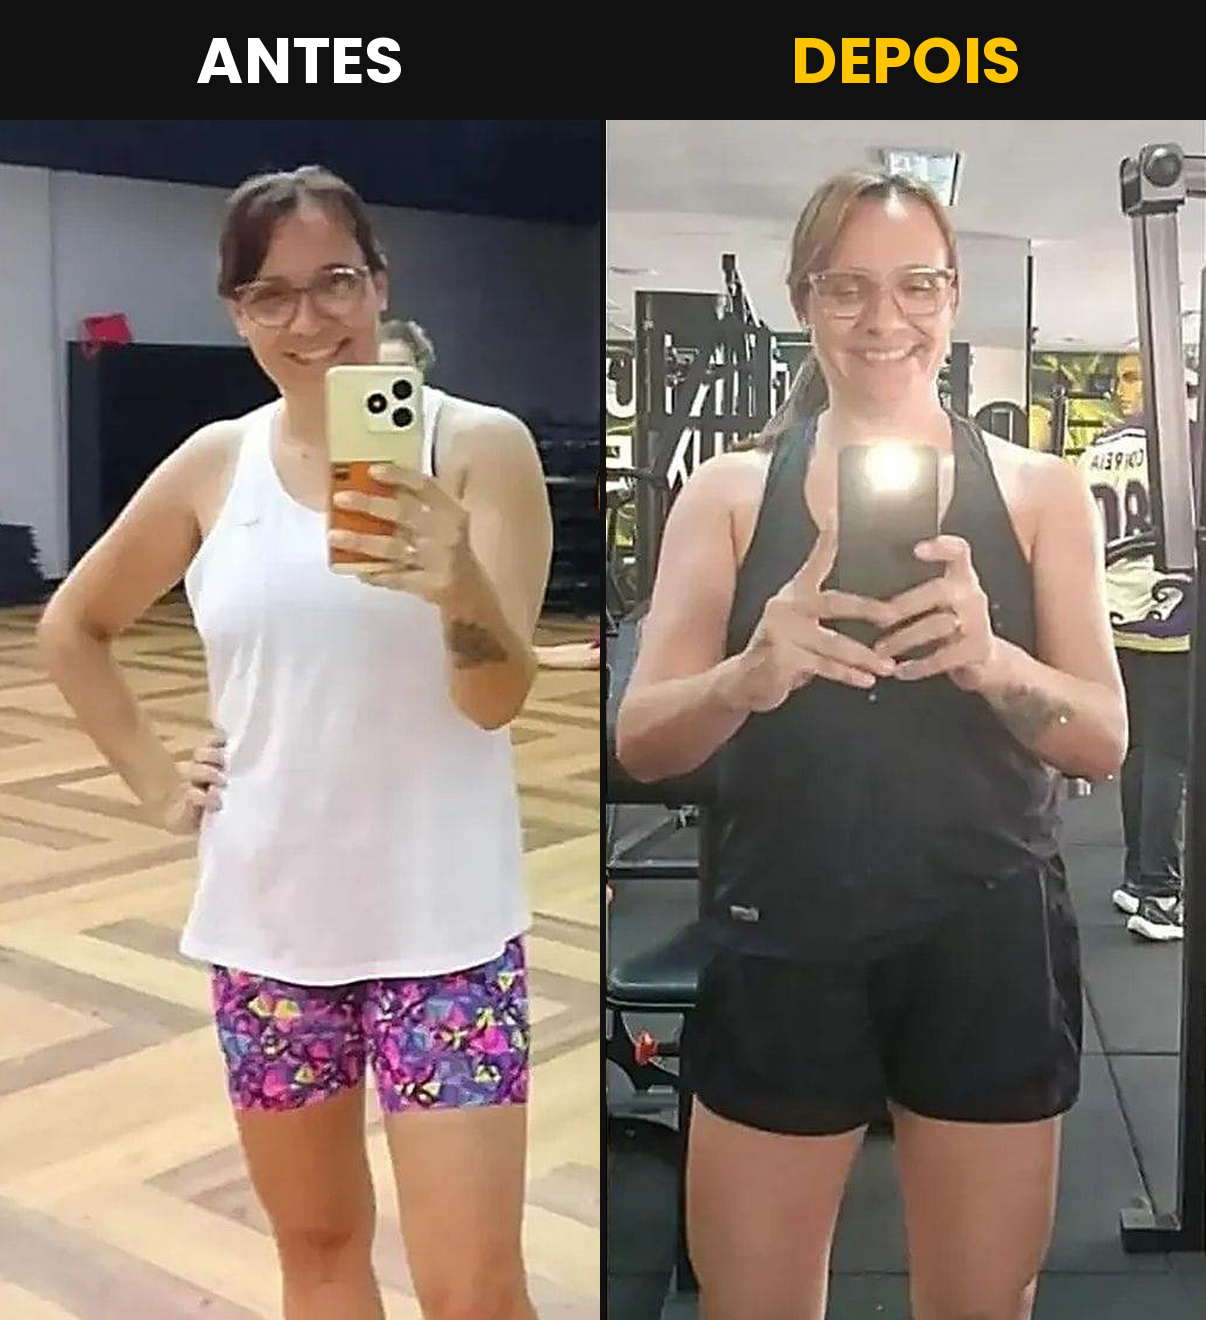
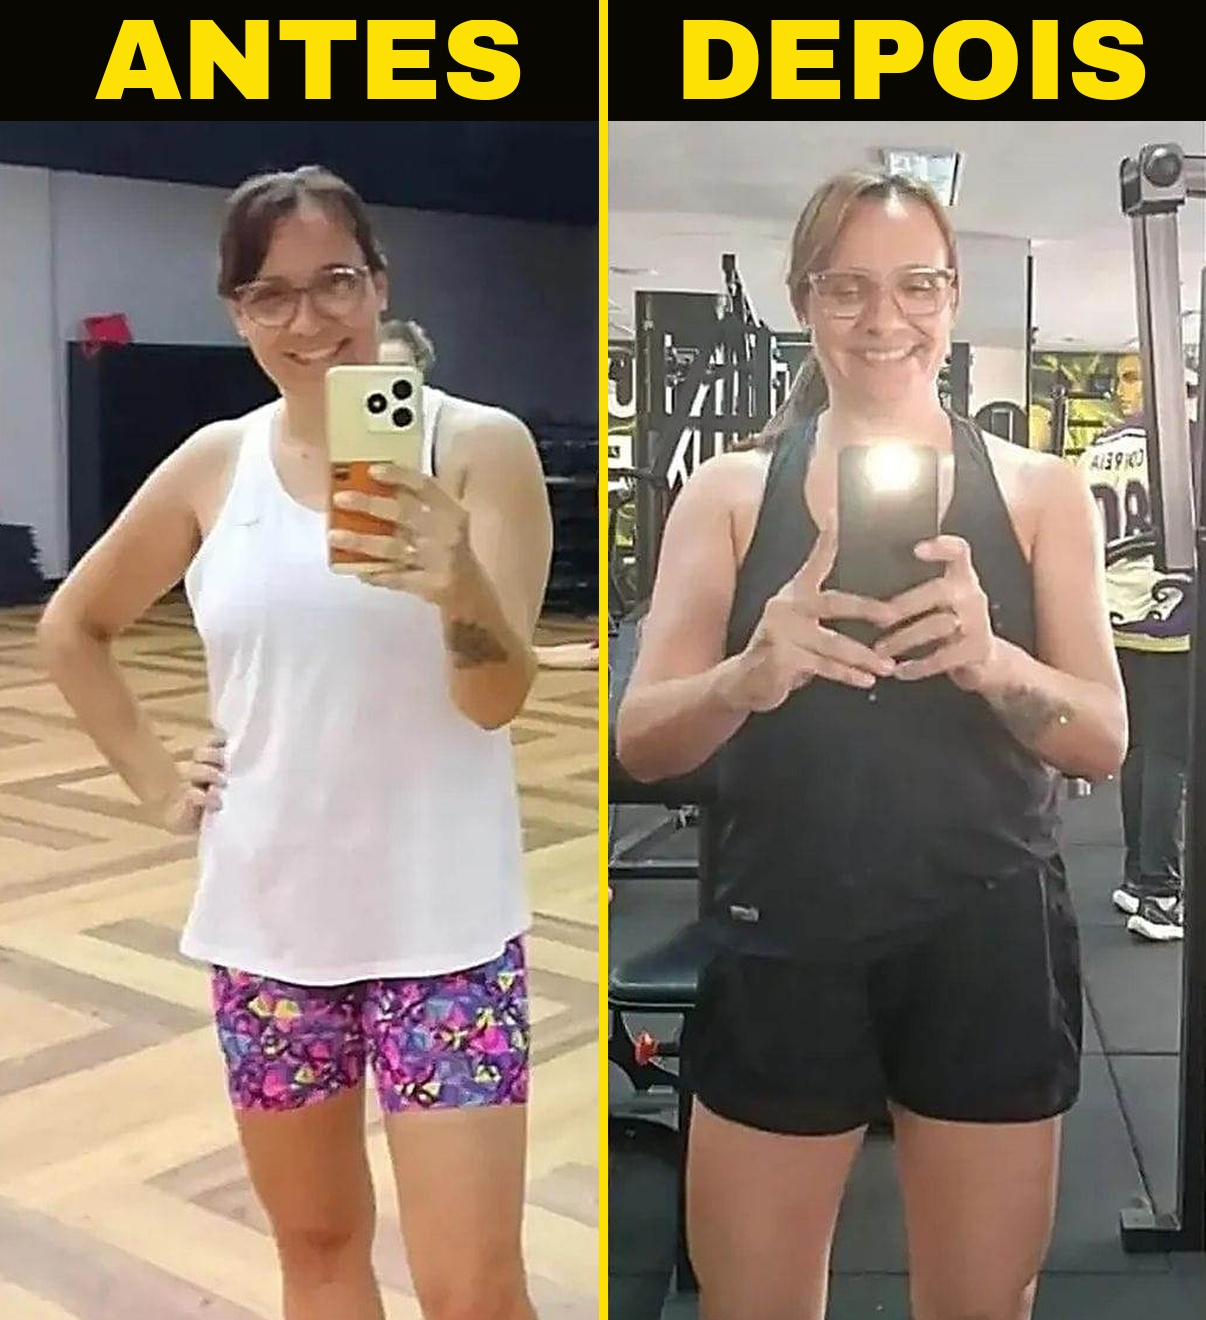
personalizando

Changed region(s): [[0.5522, 0.0, 0.9511, 0.0932], [0.4909, 0.0, 0.5216, 1.0], [0.0614, 0.0, 0.4295, 0.0932]]

diff --git a/index.html b/index.html
@@ -11,7 +11,8 @@
 
 <body>
   <div class="topbar">
-    <div class="container"><span>Treine com atitude · Evolua todos os dias /<p class="at">SITE EM DESENVOLVIMENTO...</p> </span><span>Jardim Nova Lençóis · Lençóis
+    <div class="container"><span>Treine com atitude · Evolua todos os dias /<p class="at">SITE EM DESENVOLVIMENTO...</p>
+      </span><span>Jardim Nova Lençóis · Lençóis
         Paulista - SP</span></div>
   </div>
   <nav class="nav">
@@ -50,7 +51,7 @@
           <p>Estratégia, consistência e energia para construir uma versão mais forte de você sem fórmulas prontas.</p>
         </div>
         <div class="stats">
-          <div class="stat"><strong>+1</strong><small>Ano transformando vidas</small></div>
+          <div class="stat"><strong>+2</strong><small>Anos transformando vidas</small></div>
           <div class="stat"><strong>1:1</strong><small>Atenção em cada treino</small></div>
           <div class="stat"><strong>5⭐</strong><small>Avaliação dos alunos</small></div>
           <div class="stat"><strong>100%</strong><small>Energia Susi Fit</small></div>
@@ -87,7 +88,8 @@
     </section>
     <section class="section yellow" id="sobre">
       <div class="container about">
-        <div class="poster"><img class="imgsusi" src="./assents/susi.png">
+        <div class="poster"><img class="imgsusi" src="./assents/susi.jpg"
+            alt="Susana Lopes - Susi Fit Studio"><span></span>
           <div class="poster-top"><span></span><span></span></div>
         </div>
         <div>
@@ -107,6 +109,56 @@
         </div>
       </div>
     </section>
+    <section class="section yellow" id="sobre">
+      <div class="container about">
+        <div class="poster"><img class="imgsusi" src="./assents/thaina.jpg"
+            alt="Thaina  - Susi Fit Studio"><span></span>
+          <div class="poster-top"><span></span><span></span></div>
+        </div>
+        <div>
+          <div class="eyebrow" style="color:#000">Quem está com você</div>
+          <h2>Thaina<br></h2>
+          <p style="font-size:1.12rem;font-weight:700">Profissional de Educação Física apaixonada por transformar vidas
+            por meio
+            do movimento. Atua com treinos personalizados, focados em saúde, performance e bem-estar, respeitando o
+            objetivo e o ritmo de cada aluno. Acredita que constância,
+            acompanhamento próximo e motivação são o caminho para resultados reais e duradouros.</p>
+          <div class="qualifications">
+            <div class="qualification"><strong>● Bacharelado em Educação Física</strong><span>CREF/SP</span>
+            </div>
+            <div class="qualification"><strong>● Especialização em Treinamento Funcional</strong><span>Certificação
+                reconhecida · Performance e mobilidade</span></div>
+      
+        </div>
+      </div>
+    </section>
+    <section class="section yellow" id="sobre">
+      <div class="container about">
+        <div class="poster"><img class="imgsusi" src="./assents/nathalia.jpg"
+            alt="Nathalia  - Susi Fit Studio"><span></span>
+          <div class="poster-top"><span></span><span></span></div>
+        </div>
+        <div>
+          <div class="eyebrow" style="color:#000">Quem está com você</div>
+          <h2>Nathalia<br></h2>
+          <p style="font-size:1.12rem;font-weight:700">Ser estagiária de Educação Física é viver o que a faculdade
+            ensina na prática, todos os dias. É aprender com cada aluno, com cada treino e com cada correção feita no
+            momento certo.
+
+            Para mim, é muito mais do que contar repetições. É observar o corpo de cada pessoa, entender o limite e o
+            objetivo dela e ajudá-la a ir além com segurança. Tem dia de aluno animado e dia de aluno sem vontade, e é
+            nesse segundo que o meu papel mais importa: motivar, ouvir e mostrar que o progresso vem da constância.
+
+            É também um período de construção. Eu absorvo a experiência dos professores, me dedico aos estudos e carrego
+            a responsabilidade de cuidar da saúde de quem confia em mim. Cada aluno que evolui me lembra por que escolhi
+            essa profissão.</p>
+          <div class="qualifications">
+            <div class="qualification"><strong>● Estagiária em Educação Física</strong><span></span>
+            </div>
+
+          </div>
+        </div>
+    </section>
     <section class="section testimonials" id="depoimentos">
       <div class="container">
         <div class="section-head">
@@ -117,18 +169,22 @@
           <p>Histórias reais de pessoas que escolheram começar e não pararam.</p>
         </div>
         <div class="cards">
-          <article class="quote"><img src="./assents/aluna1.jpg" class="imgps"><br>
+          <article class="quote"><img src="./assents/aluna1.jpg" class="imgps" alt="Aluna 1"><br>
             <p>“Muito feliz com os resultados, e disposta a melhorar ainda mais.💪❤”</p><br>
             <footer>Raquel G.<span></span></footer>
           </article>
-          <article class="quote"><img src="./assents/aluna2.jpg" class="imgps"><br>
+          <article class="quote"><img src="./assents/aluna2.jpg" class="imgps" alt="Aluna 2"><br>
             <p>“Finalmente encontrei uma academia em que me sinto acolhida. Evoluí na força e até minha postura mudou.”
             </p>
             <footer>Ana V.<span></span></footer>
           </article>
-          <article class="quote"><img src="./assents/" class="imgps"><br>
-            <p>“A energia do espaço é diferente. Saio de cada treino cansado, feliz e com vontade de voltar.”</p>
-            <footer>.<span></span></footer>
+          <article class="quote"><img src="./assents/aluno3.jpeg" class="imgps" alt="Aluno 3"><br>
+            <p></p>
+            <footer>Jeferson C.<span>1 ano de treino</span></footer>
+          </article>
+          <article class="quote"><img src="./assents/aluno4.jpeg" class="imgps" alt="Aluno 4"><br>
+            <p>Me sinto mais forte e com mais energia a cada dia! E os resultados só me motivam a cada treino!”</p>
+            <footer>João A.<span>2 anos de treino</span></footer>
           </article>
         </div>
       </div>
@@ -171,21 +227,35 @@
               <h1 class="topic">MODALIDADE</h1><br>
               <div class="countainertopic">
                 <div class="iconbox">
-              <svg xmlns="http://www.w3.org/2000/svg" width="60" height="60" viewBox="0 0 24 24" fill="none" stroke="currentColor" stroke-width="2" stroke-linecap="round" stroke-linejoin="round" class="iconplans"><path d="M12.409 13.017A5 5 0 0 1 22 15c0 3.866-4 7-9 7-4.077 0-8.153-.82-10.371-2.462-.426-.316-.631-.832-.62-1.362C2.118 12.723 2.627 2 10 2a3 3 0 0 1 3 3 2 2 0 0 1-2 2c-1.105 0-1.64-.444-2-1"/><path d="M15 14a5 5 0 0 0-7.584 2"/><path d="M9.964 6.825C8.019 7.977 9.5 13 8 15"/></svg>
-              </div>
-              <div>
-              <p class="topicsec">Musculação<br>
-              uma vez na semana.</p>
-              </div>
+                  <svg xmlns="http://www.w3.org/2000/svg" width="60" height="60" viewBox="0 0 24 24" fill="none"
+                    stroke="currentColor" stroke-width="2" stroke-linecap="round" stroke-linejoin="round"
+                    class="iconplans">
+                    <path
+                      d="M12.409 13.017A5 5 0 0 1 22 15c0 3.866-4 7-9 7-4.077 0-8.153-.82-10.371-2.462-.426-.316-.631-.832-.62-1.362C2.118 12.723 2.627 2 10 2a3 3 0 0 1 3 3 2 2 0 0 1-2 2c-1.105 0-1.64-.444-2-1" />
+                    <path d="M15 14a5 5 0 0 0-7.584 2" />
+                    <path d="M9.964 6.825C8.019 7.977 9.5 13 8 15" />
+                  </svg>
+                </div>
+                <div>
+                  <p class="topicsec">Musculação<br>
+                    uma vez na semana.</p>
+                </div>
               </div>
               <h1 class="topic">SERVIÇOS INCLUSOS</h1><br>
               <div class="countainertopic">
-                <div class="iconbox">                  
-                <svg xmlns="http://www.w3.org/2000/svg" width="60" height="60" viewBox="0 0 24 24" fill="none" stroke="currentColor" stroke-width="2" stroke-linecap="round" stroke-linejoin="round" class="iconplans"><path d="M12 20h.01"/><path d="M2 8.82a15 15 0 0 1 20 0"/><path d="M5 12.859a10 10 0 0 1 14 0"/><path d="M8.5 16.429a5 5 0 0 1 7 0"/></svg>
+                <div class="iconbox">
+                  <svg xmlns="http://www.w3.org/2000/svg" width="60" height="60" viewBox="0 0 24 24" fill="none"
+                    stroke="currentColor" stroke-width="2" stroke-linecap="round" stroke-linejoin="round"
+                    class="iconplans">
+                    <path d="M12 20h.01" />
+                    <path d="M2 8.82a15 15 0 0 1 20 0" />
+                    <path d="M5 12.859a10 10 0 0 1 14 0" />
+                    <path d="M8.5 16.429a5 5 0 0 1 7 0" />
+                  </svg>
                 </div>
                 <div>
-              <p class="topicsec">Wi-fi gratuito.</p>
-              </div>
+                  <p class="topicsec">Wi-fi gratuito.</p>
+                </div>
               </div>
             </div>
           </article>
@@ -195,40 +265,63 @@
               <p>À partir de</p>
               <br>
               <div class="pricemensal">
-              <div>
-              <h1 class="pricesecm1">R$ <span class="price">90</span>,00</h1>
-              <p class="opcoes">Dinheiro ou pix</p>
-              </div>
-          
-              <div>
-              <h1 class="pricesecm">R$ <span class="price">95</span>,00</h1>
-              <p class="opcoes">Crédito ou Débito</p>
-              </div>
+                <div>
+                  <h1 class="pricesecm1">R$ <span class="price">90</span>,00</h1>
+                  <p class="opcoes">Dinheiro ou pix</p>
+                </div>
+
+
+                <div>
+                  <h1 class="pricesecm">R$ <span class="price">95</span>,00</h1>
+                  <p class="opcoes">Crédito ou Débito</p>
+                </div>
               </div>
               <h1 class="topic">MODALIDADE</h1><br>
               <div class="countainertopic2">
                 <div class="iconbox">
-              <svg xmlns="http://www.w3.org/2000/svg" width="60" height="60" viewBox="0 0 24 24" fill="none" stroke="currentColor" stroke-width="2" stroke-linecap="round" stroke-linejoin="round" class="iconplans"><path d="M12.409 13.017A5 5 0 0 1 22 15c0 3.866-4 7-9 7-4.077 0-8.153-.82-10.371-2.462-.426-.316-.631-.832-.62-1.362C2.118 12.723 2.627 2 10 2a3 3 0 0 1 3 3 2 2 0 0 1-2 2c-1.105 0-1.64-.444-2-1"/><path d="M15 14a5 5 0 0 0-7.584 2"/><path d="M9.964 6.825C8.019 7.977 9.5 13 8 15"/></svg>
-              </div>
-              <div>
-              <p class="topicsec">Musculação a
-               semana toda.</p>
-              </div>
+                  <svg xmlns="http://www.w3.org/2000/svg" width="60" height="60" viewBox="0 0 24 24" fill="none"
+                    stroke="currentColor" stroke-width="2" stroke-linecap="round" stroke-linejoin="round"
+                    class="iconplans">
+                    <path
+                      d="M12.409 13.017A5 5 0 0 1 22 15c0 3.866-4 7-9 7-4.077 0-8.153-.82-10.371-2.462-.426-.316-.631-.832-.62-1.362C2.118 12.723 2.627 2 10 2a3 3 0 0 1 3 3 2 2 0 0 1-2 2c-1.105 0-1.64-.444-2-1" />
+                    <path d="M15 14a5 5 0 0 0-7.584 2" />
+                    <path d="M9.964 6.825C8.019 7.977 9.5 13 8 15" />
+                  </svg>
+                </div>
+                <div>
+                  <p class="topicsec">Musculação a
+                    semana toda.</p>
+                </div>
               </div>
               <h1 class="topic">SERVIÇOS INCLUSOS</h1><br>
               <div class="countainertopic2">
-                <div class="iconbox">                  
-                <svg xmlns="http://www.w3.org/2000/svg" width="60" height="60" viewBox="0 0 24 24" fill="none" stroke="currentColor" stroke-width="2" stroke-linecap="round" stroke-linejoin="round" class="iconplans"><path d="M12 20h.01"/><path d="M2 8.82a15 15 0 0 1 20 0"/><path d="M5 12.859a10 10 0 0 1 14 0"/><path d="M8.5 16.429a5 5 0 0 1 7 0"/></svg>
+                <div class="iconbox">
+                  <svg xmlns="http://www.w3.org/2000/svg" width="60" height="60" viewBox="0 0 24 24" fill="none"
+                    stroke="currentColor" stroke-width="2" stroke-linecap="round" stroke-linejoin="round"
+                    class="iconplans">
+                    <path d="M12 20h.01" />
+                    <path d="M2 8.82a15 15 0 0 1 20 0" />
+                    <path d="M5 12.859a10 10 0 0 1 14 0" />
+                    <path d="M8.5 16.429a5 5 0 0 1 7 0" />
+                  </svg>
                 </div>
                 <div>
-              <p class="topicsec">Wi-fi gratuito.</p>
-              </div>
-              <div class="iconbox">
-                <svg xmlns="http://www.w3.org/2000/svg" width="60" height="60" viewBox="0 0 24 24" fill="none" stroke="currentColor" stroke-width="2" stroke-linecap="round" stroke-linejoin="round" class="iconplans"><path d="M13 19a4 4 0 00-8 0"/><path d="M16 10h2"/><path d="M16 14h2"/><circle cx="9" cy="12" r="3"/><rect x="2" y="5" width="20" height="14" rx="2"/></svg>
-              </div>
-              <div>
-                <p class="topicsec">Entrada ilimitada.</p>
-              </div>
+                  <p class="topicsec">Wi-fi gratuito.</p>
+                </div>
+                <div class="iconbox">
+                  <svg xmlns="http://www.w3.org/2000/svg" width="60" height="60" viewBox="0 0 24 24" fill="none"
+                    stroke="currentColor" stroke-width="2" stroke-linecap="round" stroke-linejoin="round"
+                    class="iconplans">
+                    <path d="M13 19a4 4 0 00-8 0" />
+                    <path d="M16 10h2" />
+                    <path d="M16 14h2" />
+                    <circle cx="9" cy="12" r="3" />
+                    <rect x="2" y="5" width="20" height="14" rx="2" />
+                  </svg>
+                </div>
+                <div>
+                  <p class="topicsec">Entrada ilimitada.</p>
+                </div>
               </div>
             </div>
           </article>

diff --git a/style.css b/style.css
@@ -45,9 +45,8 @@ a {
   border-radius: 20px;
 }
 .imghero{
-  width: 100%;
-  min-height: 470px;
-  object-fit: cover;
+min-width: 100%;
+height: 69vh;
 }
 
 .imgg{
@@ -304,6 +303,8 @@ a {
 .section.yellow {
   background: var(--yellow);
   color: var(--black);
+  border: 1px solid #0003;
+
 }
 
 .section-head {
@@ -412,7 +413,8 @@ a {
 
 .imgsusi{
 
-  height: 500px;
+  min-width: 100%;
+ 
   
 }
 
@@ -556,6 +558,7 @@ a {
   gap: 10px;
   text-align: center;
   
+  
 }
 
 .titleplans {
@@ -565,7 +568,8 @@ a {
   font-weight: 900;
   border-radius: 20px;
   border: 2px solid var(--black);
-  padding: 1px;
+  padding: 25px;
+  margin-bottom: 10px;
 }
 
 .cardssec{
@@ -583,13 +587,13 @@ a {
 
 .price{
   color: var(--white);
-  font-size: 5.9rem;
+  font-size: 4.9rem;
   font-weight: 900;
 }
 
 .pricesec{
   color: var(--white);
-  font-size: 3.9rem;
+  font-size: 4.9rem;
   font-weight: 700;
   margin-top: -20px;
   display: flex;
